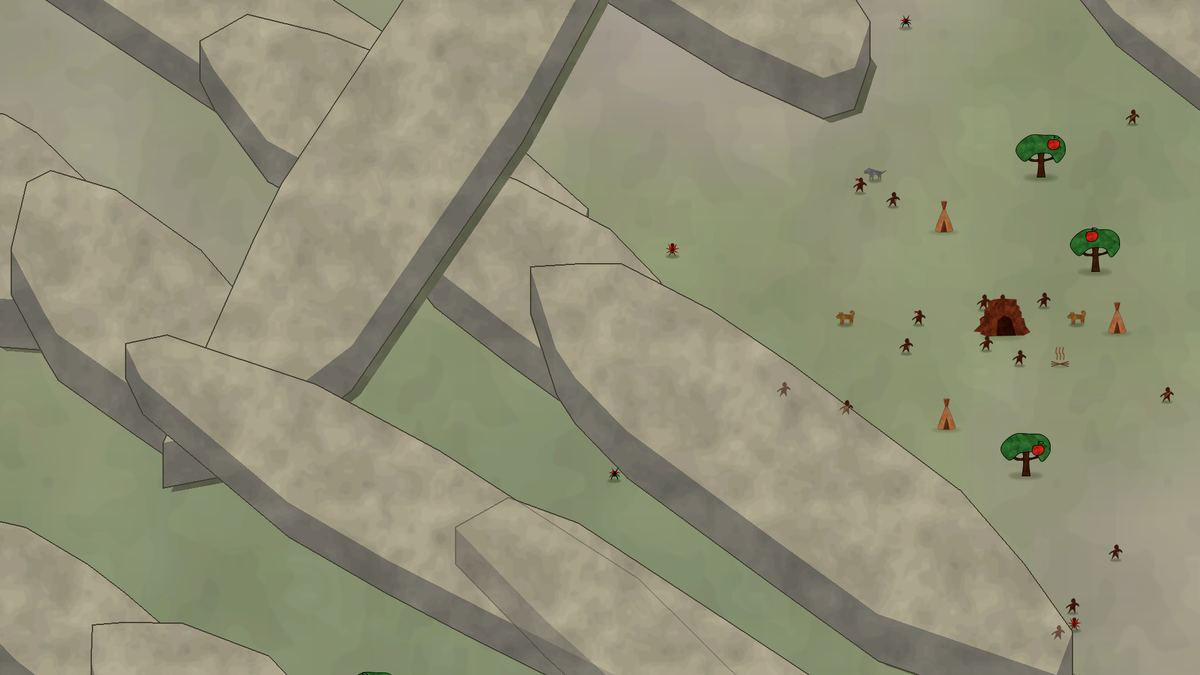
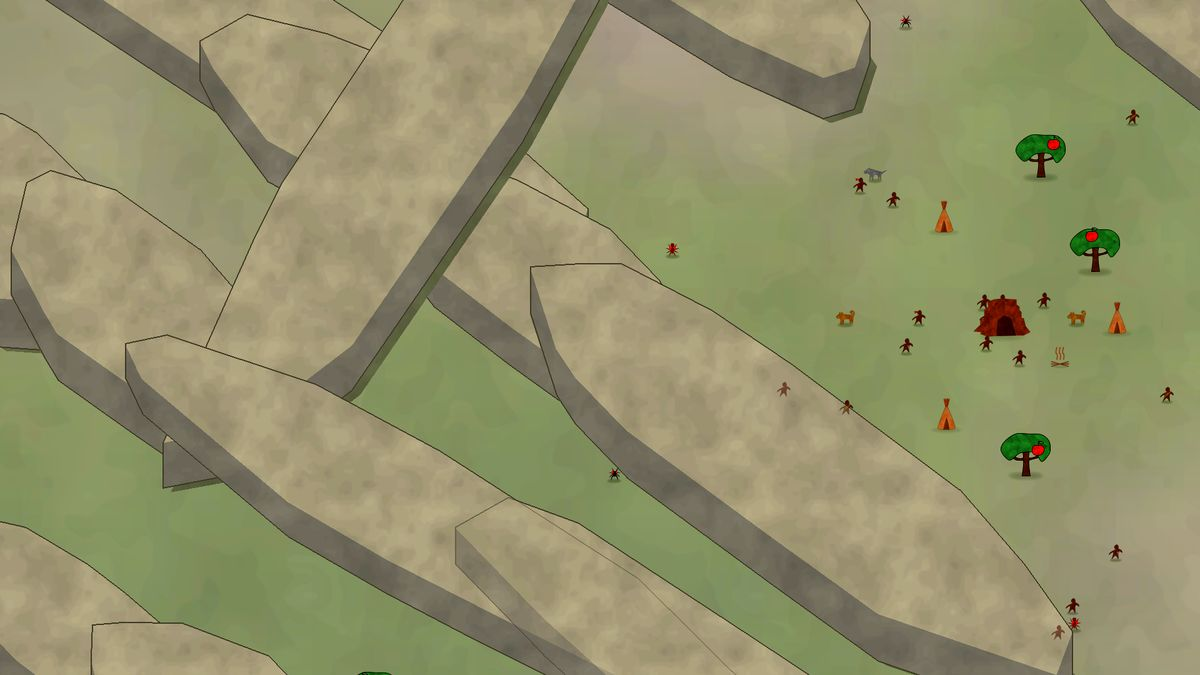
Drop the loop tag, open up Community, more colour in the washes
The Build / Survive / Fall / Evolve line is gone, and so is "In development"
from the fact line under the hero.

Community was two shrink-wrapped plates huddled in the middle, reading as an
afterthought at the foot of the page. They are two equal plates across the row
now, each carrying Discord's own mark masked to the plate's text colour, with
the server name up to 34px and a line of copy above the pair.

The backdrops go up in saturation (2.7x) and down in opacity at the same time.
Those move in opposite directions on purpose: soft-light at this strength keeps
only a fraction of whatever saturation goes in, so pushing the source well past
what looks right on its own is what gets colour into a wash that is also
fainter than before.

diff --git a/index.html b/index.html
@@ -331,21 +331,6 @@
     color: var(--on-paper);
   }
 
-  /* build → survive → fall → evolve — the whole pitch in four words */
-  .loop {
-    display: flex; flex-wrap: wrap; justify-content: center;
-    gap: 10px 18px;
-    margin: 34px 0 0;
-    padding: 0; list-style: none;
-    font-family: var(--font-display);
-    font-size: 30px;
-    text-transform: none;
-    color: var(--sienna);
-    text-shadow: 0 2px 0 rgba(59,28,23,.12);
-  }
-  .loop li { display: flex; align-items: center; gap: 18px; }
-  .loop li:not(:last-child)::after { content: "→"; color: var(--muted); opacity: .6; font-size: 22px; }
-
   .cta-row {
     display: flex; flex-wrap: wrap; justify-content: center; gap: 18px;
     margin-top: 42px;
@@ -370,8 +355,13 @@
      It blends `soft-light` rather than `luminosity`: luminosity contributes
      light and shade but strips the picture's own colour, which made the bands
      read as grey texture. Soft-light keeps the hue and still sits under the
-     paper rather than on top of it — so the opacity comes down as the colour
-     comes up, and the wash is fainter overall than the grey one was.
+     paper rather than on top of it.
+
+     The saturation and the opacity move in opposite directions on purpose. The
+     source images are pushed well past what looks right on their own (2.7x),
+     because soft-light at this opacity keeps only a fraction of it — so the
+     wash ends up more coloured AND fainter than a straight blend of the
+     originals would be.
      The mask fades it to nothing at both edges, so no band has a seam where
      the picture stops. `background-attachment: fixed` gives a slight parallax,
      which is what stops it reading as a flat texture. */
@@ -381,7 +371,7 @@
     pointer-events: none;
     background: var(--bg-art) center / cover no-repeat fixed;
     mix-blend-mode: soft-light;
-    opacity: .55;
+    opacity: .38;
     -webkit-mask-image: linear-gradient(180deg, transparent, #000 22%, #000 78%, transparent);
     mask-image: linear-gradient(180deg, transparent, #000 22%, #000 78%, transparent);
   }
@@ -399,7 +389,7 @@
     pointer-events: none;
     background: url('media/bg-2.jpg') center / cover no-repeat;
     mix-blend-mode: soft-light;
-    opacity: .42;
+    opacity: .30;
     -webkit-mask-image: radial-gradient(ellipse 75% 80% at 50% 45%, #000 30%, transparent 78%);
     mask-image: radial-gradient(ellipse 75% 80% at 50% 45%, #000 30%, transparent 78%);
   }
@@ -469,20 +459,45 @@
   .sys p { margin: 0; font-size: 17px; line-height: 1.45; color: var(--muted-bone); }
 
   /* ============ COMMUNITY ============ */
-  .servers { display: flex; flex-wrap: wrap; justify-content: center; gap: 22px; }
-  .servers .btn { flex-direction: column; gap: 6px; min-width: 270px; padding: 24px 30px; }
+  /* Two equal plates across the row, not two shrink-wrapped ones huddled in
+     the middle — the pair was reading as an afterthought at the foot of the
+     page. Each carries Discord's own mark, masked to the plate's text colour. */
+  .comm-lead {
+    max-width: 46ch;
+    margin: -20px auto 40px;
+    text-align: center;
+    font-size: 18px;
+    color: var(--muted);
+  }
+  .servers {
+    display: grid;
+    grid-template-columns: repeat(2, 1fr);
+    gap: 26px;
+    max-width: 860px;
+    margin: 0 auto;
+  }
+  .servers .btn {
+    width: 100%;
+    justify-content: flex-start;
+    gap: 20px;
+    padding: 26px 30px;
+    text-align: left;
+  }
+  .servers .logo { width: 2.7em; height: 2.7em; }
+  .servers .server-txt { display: flex; flex-direction: column; gap: 5px; min-width: 0; }
   .servers .flag {
     font-family: var(--font-mono);
-    font-size: 11px; font-weight: 500;
-    letter-spacing: .14em;
+    font-size: 12px; font-weight: 500;
+    letter-spacing: .16em;
     opacity: .75;
   }
   .servers .name {
     font-family: var(--font-display);
-    font-size: 32px; line-height: 1;
-    text-transform: none;
+    font-size: 34px; line-height: 1;
     letter-spacing: 0;
   }
+  /* the chip goes to the far end of the plate, not up against the name */
+  .servers .btn .soon { margin-left: auto; align-self: center; }
 
   /* ============ FOOTER ============
      The "that ugly boy" mark, small, at the very end — the way LocalThunk sits
@@ -614,11 +629,12 @@
     .hero { padding: 56px 0 52px; }
     .systems, .shots { grid-template-columns: 1fr; }
     section.block { padding: 54px 0; }
-    .loop { font-size: 24px; gap: 8px 12px; }
-    .loop li { gap: 12px; }
     .tagline { font-size: 19px; }
     .brand { font-size: 28px; }
-    .cta-row .btn, .servers .btn { width: 100%; }
+    .cta-row .btn { width: 100%; }
+    .servers { grid-template-columns: 1fr; gap: 18px; }
+    .servers .name { font-size: 30px; }
+    .comm-lead { font-size: 17px; margin-top: -12px; }
     .settler { width: 100px; height: 107px; }
     .tub { --wordmark-h: 110px; }
   }

diff --git a/app.js b/app.js
@@ -74,14 +74,12 @@ function topbar() {
 // in the bar above and gets its own section further down.
 function hero() {
   const c = C();
-  const loop = c.hero.loop.map((s) => `<li>${esc(s)}</li>`).join('');
   return `
     <section class="hero" id="top">
       <div class="wrap">
         <div class="settler" aria-hidden="true"></div>
         <h1 class="wordmark">Ochre</h1>
         <p class="tagline">${esc(c.hero.tagline)}</p>
-        <ul class="loop">${loop}</ul>
         <div class="cta-row">
           ${btn(LINKS.steam, LOGO.steam + esc(c.cta.steam), 'big primary')}
         </div>
@@ -138,14 +136,18 @@ function community() {
   // the name carries its own lang — which also picks the right display face.
   const cards = c.cards.map((s) => btn(
     LINKS.discord[s.key],
-    `<span class="flag">${esc(s.flag)}</span>
-     <span class="name" lang="${esc(s.key)}">${esc(s.name)}</span>`,
+    `${LOGO.discord}
+     <span class="server-txt">
+       <span class="flag">${esc(s.flag)}</span>
+       <span class="name" lang="${esc(s.key)}">${esc(s.name)}</span>
+     </span>`,
     ''
   )).join('');
   return `
     <section class="block" id="community">
       <div class="wrap">
         <h2>${esc(c.title)}</h2>
+        <p class="comm-lead">${esc(c.lead)}</p>
         <div class="servers">${cards}</div>
       </div>
     </section>

diff --git a/content.js b/content.js
@@ -46,8 +46,7 @@ const CONTENT = {
 
     hero: {
       tagline: 'A society of agents grows, falls, and leaves its genes to the next one.',
-      loop: ['Build', 'Survive', 'Fall', 'Evolve'],
-      meta: 'Roguelite RTS · PC · Single player · In development'
+      meta: 'Roguelite RTS · PC · Single player'
     },
 
     cta: {
@@ -97,6 +96,7 @@ const CONTENT = {
 
     community: {
       title: 'Community',
+      lead: 'Two servers, so there is one awake wherever you are.',
       cards: [
         { flag: 'Worldwide', name: 'English', key: 'en' },
         { flag: 'LATAM', name: 'Español', key: 'es' }
@@ -118,8 +118,7 @@ const CONTENT = {
 
     hero: {
       tagline: 'Una sociedad de agentes crece, cae y le deja sus genes a la siguiente.',
-      loop: ['Construir', 'Sobrevivir', 'Caer', 'Evolucionar'],
-      meta: 'RTS roguelite · PC · Un jugador · En desarrollo'
+      meta: 'RTS roguelite · PC · Un jugador'
     },
 
     cta: {
@@ -166,6 +165,7 @@ const CONTENT = {
 
     community: {
       title: 'Comunidad',
+      lead: 'Dos servidores, para que siempre haya uno despierto.',
       cards: [
         { flag: 'LATAM', name: 'Español', key: 'es' },
         { flag: 'Mundial', name: 'English', key: 'en' }

diff --git a/BRAND.md b/BRAND.md
@@ -4,8 +4,8 @@
 `thatuglyboy.com` and the credit at the foot of `ochre.thatuglyboy.com`, and it
 will appear on every game site after this one.
 
-The two placements are **identical in every ratio** and differ only in colour
-and in overall size. That is the point: it should read as the same object
+The two placements share rules 2 and 3 exactly and differ only in the piece's
+size, in colour, and in overall scale. That is what keeps it the same object
 wherever it turns up.
 
 **Every relationship here is a ratio, and every ratio was measured.** None are
@@ -25,11 +25,23 @@ things up against.
 
 ## The three rules
 
-**1. The piece is 0.4857 of the wordmark's ink height.**
+**1. The piece is a fraction of the wordmark's ink height — the one ratio that
+is per-placement.**
 
-Chosen, not derived. Its top deliberately falls short of the ascenders: sizing
-it so the top meets them gives 0.69, and a piece that tall outweighs a wordmark
-whose extenders are hairlines. 0.4857 was picked by eye and kept.
+| placement | piece |
+|---|---|
+| `thatuglyboy.com` masthead | **0.6193** |
+| `ochre` footer credit | **0.4857** |
+
+Chosen, not derived, and the difference is deliberate: a masthead has room
+around it and a footer credit does not, so the size that reads as balanced in
+the credit leaves a hole in the hero. Both sit below the ascenders — sizing the
+piece so its top meets them gives 0.69, which is near the masthead's value but
+arrived at by accident.
+
+Rules 2 and 3 are identical in both, and rule 3 is written against the wordmark
+rather than the piece **so that changing this number does not silently move the
+spacing too**.
 
 **2. The centre of the piece's left peg sits on the wordmark's meanline.**
 
@@ -102,8 +114,8 @@ file and nothing else, or the peg figure drifts apart again.
 
 | placement | wordmark | piece | gap |
 |---|---|---|---|
-| `thatuglyboy.com` masthead | live text, 0.9531 em of ink | 0.4629 em | 0.0953 em |
-| `ochre` footer credit | 140px PNG | 68px | 14px |
+| `thatuglyboy.com` masthead | live text, 0.9531 em of ink | 0.5903 em (0.6193) | 0.0953 em |
+| `ochre` footer credit | 140px PNG | 68px (0.4857) | 14px |
 
 ## Where they live
 
@@ -114,14 +126,14 @@ file and nothing else, or the peg figure drifts apart again.
 --lockup-inktop: 0.2277;  /* element box top -> ink top, in ems */
 --lockup-mean:   0.4098;  /* meanline, fraction of the ink height */
 --lockup-peg:    0.6014;  /* peg centre, fraction of the piece height */
---lockup-mark-r: 0.4857;  /* piece height, fraction of the ink height */
+--lockup-mark-r: 0.6193;  /* piece height, fraction of the ink height */
 --lockup-gap-r:  0.1000;  /* gap, fraction of the ink height */
 --lockup-box:    1.901;   /* element box width, in ems */
 ```
 
 Everything else in that masthead derives from these. The type is capped at the
 size where the whole lockup still fits its row —
-`box + gap + piece = 1.901 + 0.0953 + 0.4629 = 2.459` ems — so the ratios never
+`box + gap + piece = 1.901 + 0.0953 + 0.5903 = 2.587` ems — so the ratios never
 bend to make room. That cap is what every earlier version was missing: `26vw`
 kept growing after `#app` stopped at 1440, and the piece was squeezed to absorb
 the difference.
@@ -130,8 +142,14 @@ the difference.
 `--mean-r` and `--peg-r`, against a `--wordmark-h` in pixels, because there the
 wordmark is a fixed-size image rather than live type.
 
-Verified at 1100, 1200, 1440 and 1920: piece 0.4857, gap 0.100, peg on the
-meanline to the pixel, at every one.
+Verified at 1100, 1200, 1440 and 1920: the placement's own piece ratio, gap
+0.100, and the peg on the meanline to the pixel, at every one.
+
+Changing the piece's size does **not** need the vertical re-solved by hand. The
+piece is centred in a box whose height does not depend on it, so its peg sits at
+`centre + 0.1014 x ratio x ink` — move the ratio and the correction moves by
+`0.1014 x ink x delta`. Going 0.4857 -> 0.6193 took the slope from 0.09623 to
+0.08332, and that landed on the meanline to the pixel first try.
 
 ## Re-measuring
 
